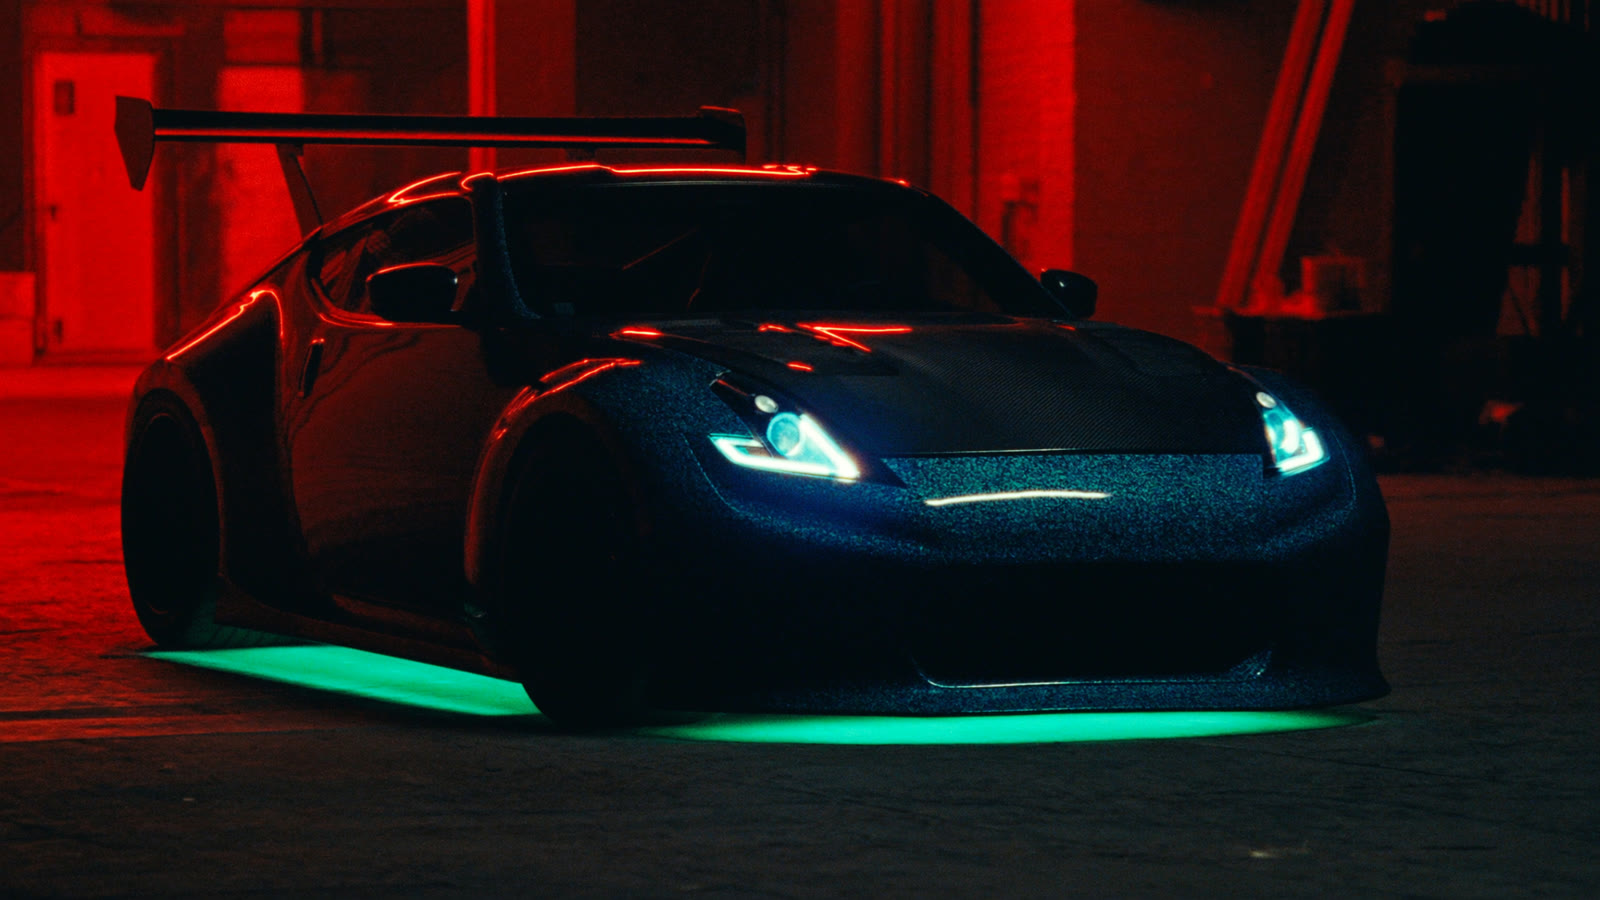
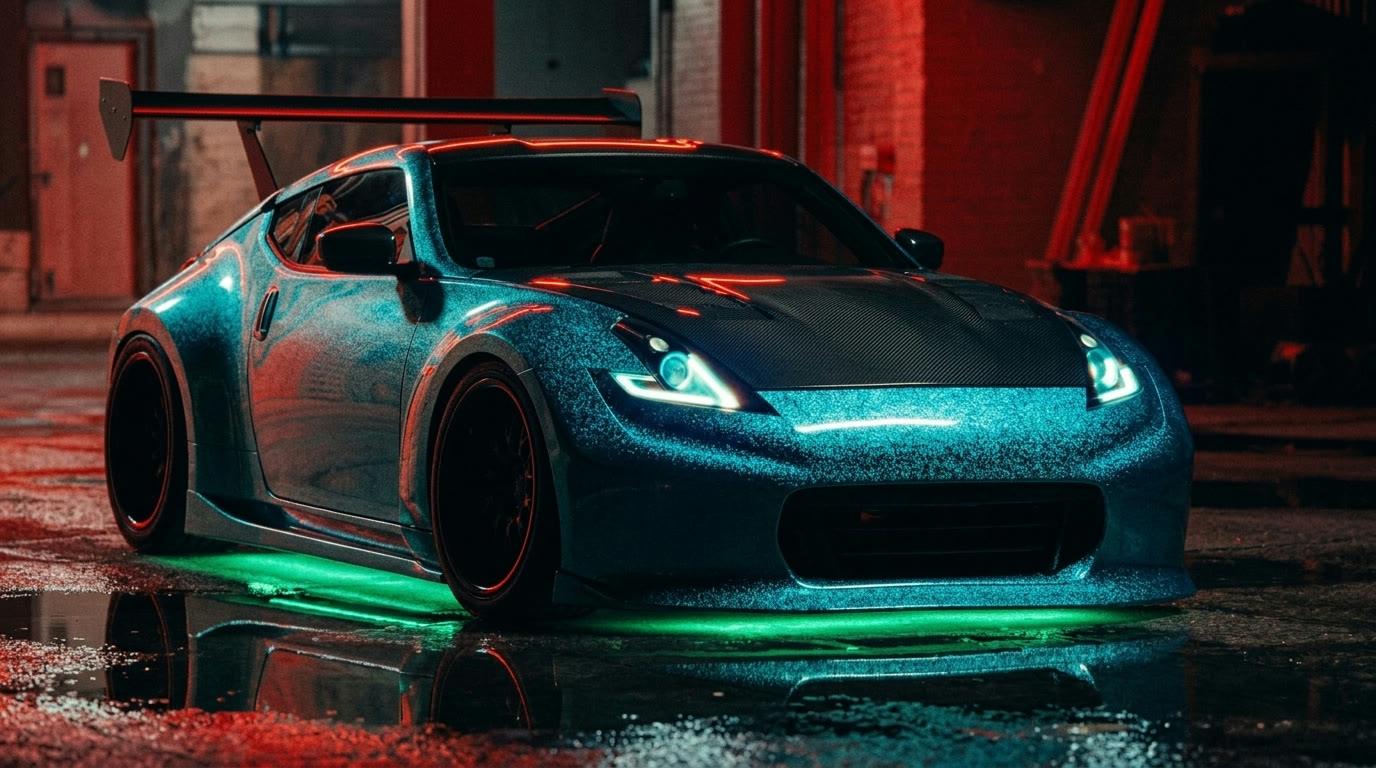
v0.30.2: рилс Лады - ночная гонка (динамика), фэшн-ультрареализм фото и заставки Лады и 370Z от референсов

diff --git a/CHANGELOG.md b/CHANGELOG.md
@@ -2,6 +2,12 @@
 
 Формат: [SemVer](https://semver.org/lang/ru/). Каждый пуш в ветку деплоя = запись здесь + бамп версии в `package.json`. Версия и дата сборки выводятся в футере сайта.
 
+## [0.30.2] — 2026-07-10
+
+### Изменено
+- **Рилс Лады пересобран в ночную гонку** (по фидбеку «не динамично»): круиз и статичные макро заменены гоночными клипами от того же канона — гонка бок-о-бок с суперкаром (семёрка выходит вперёд), проброс сквозь трафик, тоннель на скорости с пламенем из выхлопа, скольжение через перекрёсток с искрами о бордюр; старт с толпой и финиш-180 остались. Титры: «ИНОМАРКИ ОСТАЛИСЬ СЗАДИ», «СВЕТОФОРЫ НЕ УСПЕВАЮТ», «ИСКРЫ — ЭТО АВТОГРАФ». Музыка NITROUS ▸ II. Динамика проверена по кадрам из середины клипов.
+- **Фото тачек — фэшн-ультрареализм**: карточки Лады 2107 и Nissan 370Z пересняты в стиле журнальной fashion-съёмки (среднеформатный вид, софтбокс + красный контровой, мокрый съёмочный сет, честные отражения и фактура краски, без CGI-глянца) — строго от референсов (Лада — от реального фото, 370Z — от фото владельца). Заставки обеих карточек перегенерированы от новых фэшн-кадров.
+
 ## [0.30.1] — 2026-07-10
 
 ### Изменено